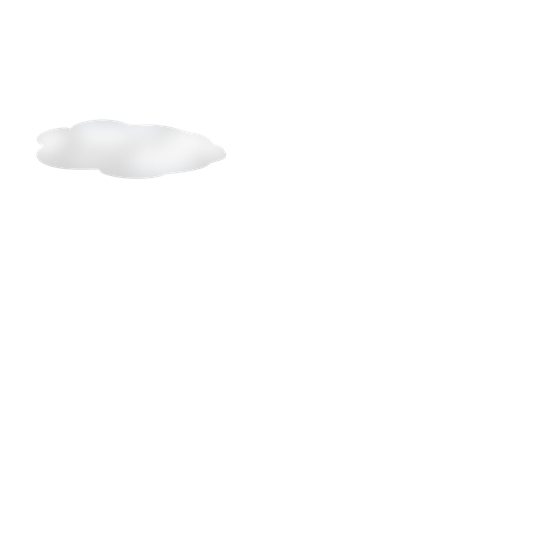
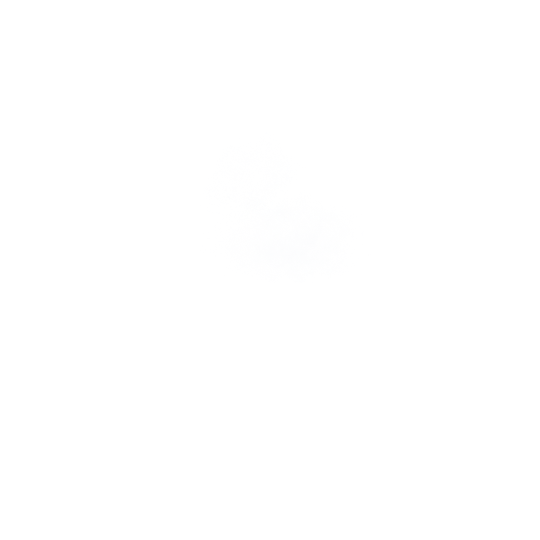
Updated clouds, edited text, added project to main

diff --git a/Project1/main.js b/Project1/main.js
@@ -1,36 +1,3 @@
-/*var scale = 1,
-  panning = false,
-  pointX = 0,
-  pointY = 0,
-  start = { x: 0, y: 0 },
-  zoom = document.getElementById("zoom");
-
-function setTransform() {
-  zoom.style.transform = "translate(" + pointX + "px, " + pointY + "px) scale(" + scale + ")";
-}
-
-
-
-zoom.addEventListener('wheel', (e) => {
-  //e.preventDefault();
-  var xs = (e.clientX - pointX) / scale,
-    ys = (e.clientY - pointY) / scale,
-    delta = (e.wheelDelta ? e.wheelDelta : -e.deltaY);
-  if (delta > 0 && scale <= 4) {
-    (scale *= 1.2);
-    pointX = e.clientX - xs * scale;
-    pointY = e.clientY - ys * scale;
-    console.log(scale);
-    setTransform();
-  } else {
-    //e.stopPropagation();
-    (deltaY = 4);
-  }
-  
-});*/
-
-// after zoom, maybe I can append the image and set the criteria? That way it won't be showing
-
 
 let maleOrca = document.getElementById('male-orca');
 let femaleOrca = document.getElementById('female-orca');
@@ -44,16 +11,22 @@ let h2Title = document.getElementById('title');
 let bubbles = document.getElementById('bubbles');
 let blubber = document.getElementById('blubber');
 
-const whales = document.getElementById('whales');
+const whaleDiv = document.getElementById('whales');
 const fishDiv = document.getElementById('fish');
 
 window.addEventListener('scroll', (e) => {
+  /*find scroll measurement*/
   let totalScroll = window.scrollY;
-  let whalePosition = whales.offsetTop;
+
+  /*position where divs begin*/
+  let whalePosition = whaleDiv.offsetTop;
   let fishPosition = fishDiv.offsetTop;
+
+  /*start scroll measurement where div begins*/
   let distanceWhale = totalScroll-whalePosition;
   let distanceSalmon = totalScroll-fishPosition;
 
+  /*calculations for movement from start point based on scroll*/
   let femaleOrcaX = 500 + (-distanceWhale*.6);
   let maleOrcaX = 500 + (-distanceWhale*.4);
   let cloudOneY = 100-(totalScroll*0.5);
@@ -67,6 +40,7 @@ window.addEventListener('scroll', (e) => {
   let bubbleY = 0 - (totalScroll*0.2);
   let blubberOpacity = 0 + (distanceSalmon*0.00065);
 
+  /*call transformations*/
   femaleOrca.style.transform = `translateX(${femaleOrcaX}px)`;
   maleOrca.style.transform = `translateX(${maleOrcaX}px)`;
   cloudOne.style.transform = `translate(${cloudOneX}px, ${cloudOneY}px)`;

diff --git a/Project1/index.html b/Project1/index.html
@@ -17,18 +17,22 @@
           <img src="cloud2.PNG" alt="cloud" class="cloud" id="cloud-two">
           <img src="cloud3.PNG" alt="cloud" class="cloud" id="cloud-three">
           <h2 id="noise">Noise pollution from vessels</h2>
+          <p id="noise-details">May hinder communication abilities and hunting</p>
         </div>
         <div id="fish">
             <h2 id="food">Struggling populations of Chinook Salmon</h2>
+            <p id="food-details">These salmon are the main food source for the resident whales</p>
             <img src="salmon.PNG" alt="salmon" id="salmon"> 
             <img src="bubbles.png" alt="bubbles" id="bubbles">
         </div>
         <div id="whales">
             <h2 id="toxins">Exposure to toxins</h2>
             <img src="blubber.png" alt="blubber" id="blubber">
-            <h2 id="toxins-stored">Contaminants like PCB have been found in the orca whales' blubber- as they burn fat when food sources are low, contaminants enter their blood stream.</h2>
+            <p id="toxins-stored">Contaminants in the environment have been found to be stored in orca whales' blubber- as they burn fat when food sources are low, contaminants enter their blood stream.</p>
             <img src="maleOrca.PNG" alt="male-orca" id="male-orca">
             <img src="femaleOrca.PNG" alt="female-orca" id="female-orca">
+            <h2 id="population">Current population:</h2>
+            <h3>72</h3>
         </div>
     </body>
     <footer>

diff --git a/Project1/main.css b/Project1/main.css
@@ -1,5 +1,5 @@
 @import url('https://fonts.googleapis.com/css2?family=Amatic+SC&family=Josefin+Sans:wght@700&display=swap');
-
+@import url('https://fonts.googleapis.com/css2?family=Josefin+Sans:wght@100&display=swap');
 body {
   background-color: black;
   min-height: 100vh;
@@ -32,6 +32,27 @@ h1 {
   top: 0;
   left: 5px;
   opacity: 1;
+}
+h3{
+  z-index: 6;
+  text-align: center;
+  margin-left: 60%;
+  margin-top: 60%;
+  font-family: 'Josefin Sans', sans-serif;
+  color: white;
+  text-transform: uppercase;
+  font-size: 10em;
+  position: absolute;
+}
+p {
+  font-family: 'Josefin Sans', sans-serif;
+  color: white;
+  display: flex;
+  flex-wrap: wrap;
+  text-align: center;
+  justify-content: center;
+  font-size: 1.6em;
+  position: absolute;
 }
 #title {
   z-index: 4;
@@ -157,10 +178,24 @@ div#fish {
   display: flex;
   flex-wrap: wrap;
 }
+#noise-details {
+  z-index: 6;
+  bottom: 0px;
+  left: 30px;
+  display: flex;
+  flex-wrap: wrap;
+}
 #food {
   z-index: 6;
   top: 20rem;
   right: 30px;
+  display: flex;
+  flex-wrap: wrap;
+}
+#food-details {
+  z-index: 6;
+  margin-left: 60%;
+  margin-top: 10%;
   display: flex;
   flex-wrap: wrap;
 }
@@ -224,3 +259,11 @@ div#whales {
   max-width: 100%;
   object-fit: cover;
 }
+
+#population {
+  z-index: 6;
+  text-align: center;
+  margin-left: 60%;
+  margin-top: 50%;
+}
+

diff --git a/index.html b/index.html
@@ -24,7 +24,7 @@
         <div class="flex-container">
             <div class="project-box">
                 <div id="project-one">project 1 shows here
-                    <figcaption>Title of Project</figcaption>
+                    <figcaption>PNW Orca Whales - Parallax</figcaption>
                 </div>
                 <div id="project-two">project 2 shows here
                     <figcaption>Title of Project</figcaption>
@@ -38,7 +38,7 @@
                 <div class="modal-content">
                     <img class="project-modal" src="desert.jpg">
                     <div class="project-info">
-                        <p class="project-summary"><a href="project link" class="project-links">View Project</a>
+                        <p class="project-summary"><a href="https://mdukek1995.github.io/frontend-web-development/Project1/index.html" target="_blank" class="project-links">View Project</a>
                             <br>Summary of project (what is the theme/problem it's solving)</p>
                     </div>
                 </div>
